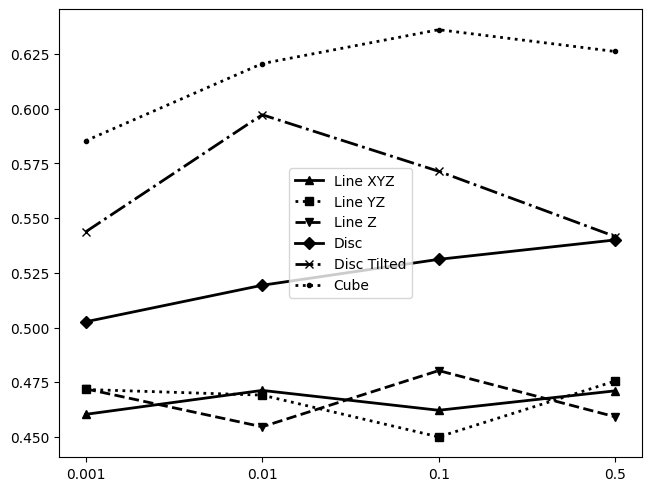
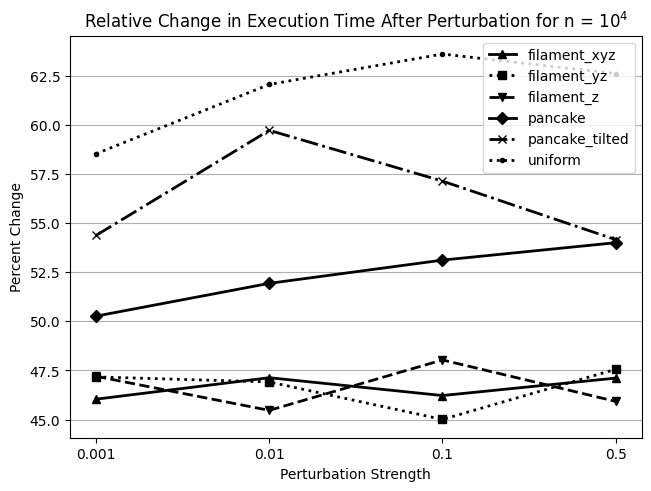
Added Gridlines and Initial Breakdown
Gridlines help get statistics from a plot. The breakdown shows the initial distribution breakdown for each size.

diff --git a/scripts/analyze_sqlite_files.py b/scripts/analyze_sqlite_files.py
@@ -118,6 +118,8 @@ for quantity in quantities:
             for label, partition in partitioned.items():
                 p = ax.bar(x = spacing, height = partition, width = width, label=label, bottom=bottom, align = 'center', hatch = hatch_info[label])
                 bottom += partition
+            plt.grid(axis='y')
+            ax.set_axisbelow(True)
             ax.set_ylabel('Execution Time (ms)')
             ax.set_xlabel('Perturbation Strength')
             ax.legend()
@@ -127,9 +129,37 @@ for quantity in quantities:
             
     
     
-    
-    
-    
+    if True:
+        labels = []
+        
+        partitioned = dict()
+
+        for key, value in composition.items():
+            labels.append(graph_info[key][2])
+            for metric in value['s0p001'][0]:
+                if(metric[0] not in partitioned):
+                    partitioned[metric[0]] = []
+                partitioned[metric[0]].append(metric[1]/1000000)
+
+        width = .75
+
+        fig, ax = plt.subplots()
+        bottom = np.zeros(6)
+
+
+        for boolean, partition in partitioned.items():
+            #print(boolean)
+            p = ax.bar(x = labels, height = partition, width = width, label=boolean, bottom=bottom, align = 'center', hatch = hatch_info[boolean])
+            bottom += partition
+            
+        ax.tick_params(axis='x', which='major', labelsize=8)
+        plt.grid(axis='y')
+        ax.set_axisbelow(True)
+        ax.set_ylabel('Execution Time (ms)')
+        ax.set_xlabel('Distribution')
+        ax.legend()
+        ax.set_title("Breakdown of inital distributions with n = $"+scientific[quantity]+"$")
+        plt.savefig('..\\outputs_031126\\breakdown_' + quantity + '.png', bbox_inches="tight")
     
     
     if True:
@@ -153,7 +183,8 @@ for quantity in quantities:
         ax.set_ylabel('Percent Change')
         ax.set_xlabel('Perturbation Strength')
         plt.xticks(x_pos, labels=[str(x) for x in x])
-        #plt.ylim(.36, 1.44)
+        plt.grid(axis='y')
+        ax.set_axisbelow(True)
         ax.set_title("Relative Change in Execution Time After Perturbation for n = $"+scientific[quantity]+"$")
         plt.savefig('..\\outputs_031126\\plotted_' + quantity + '.png', bbox_inches="tight")
 
